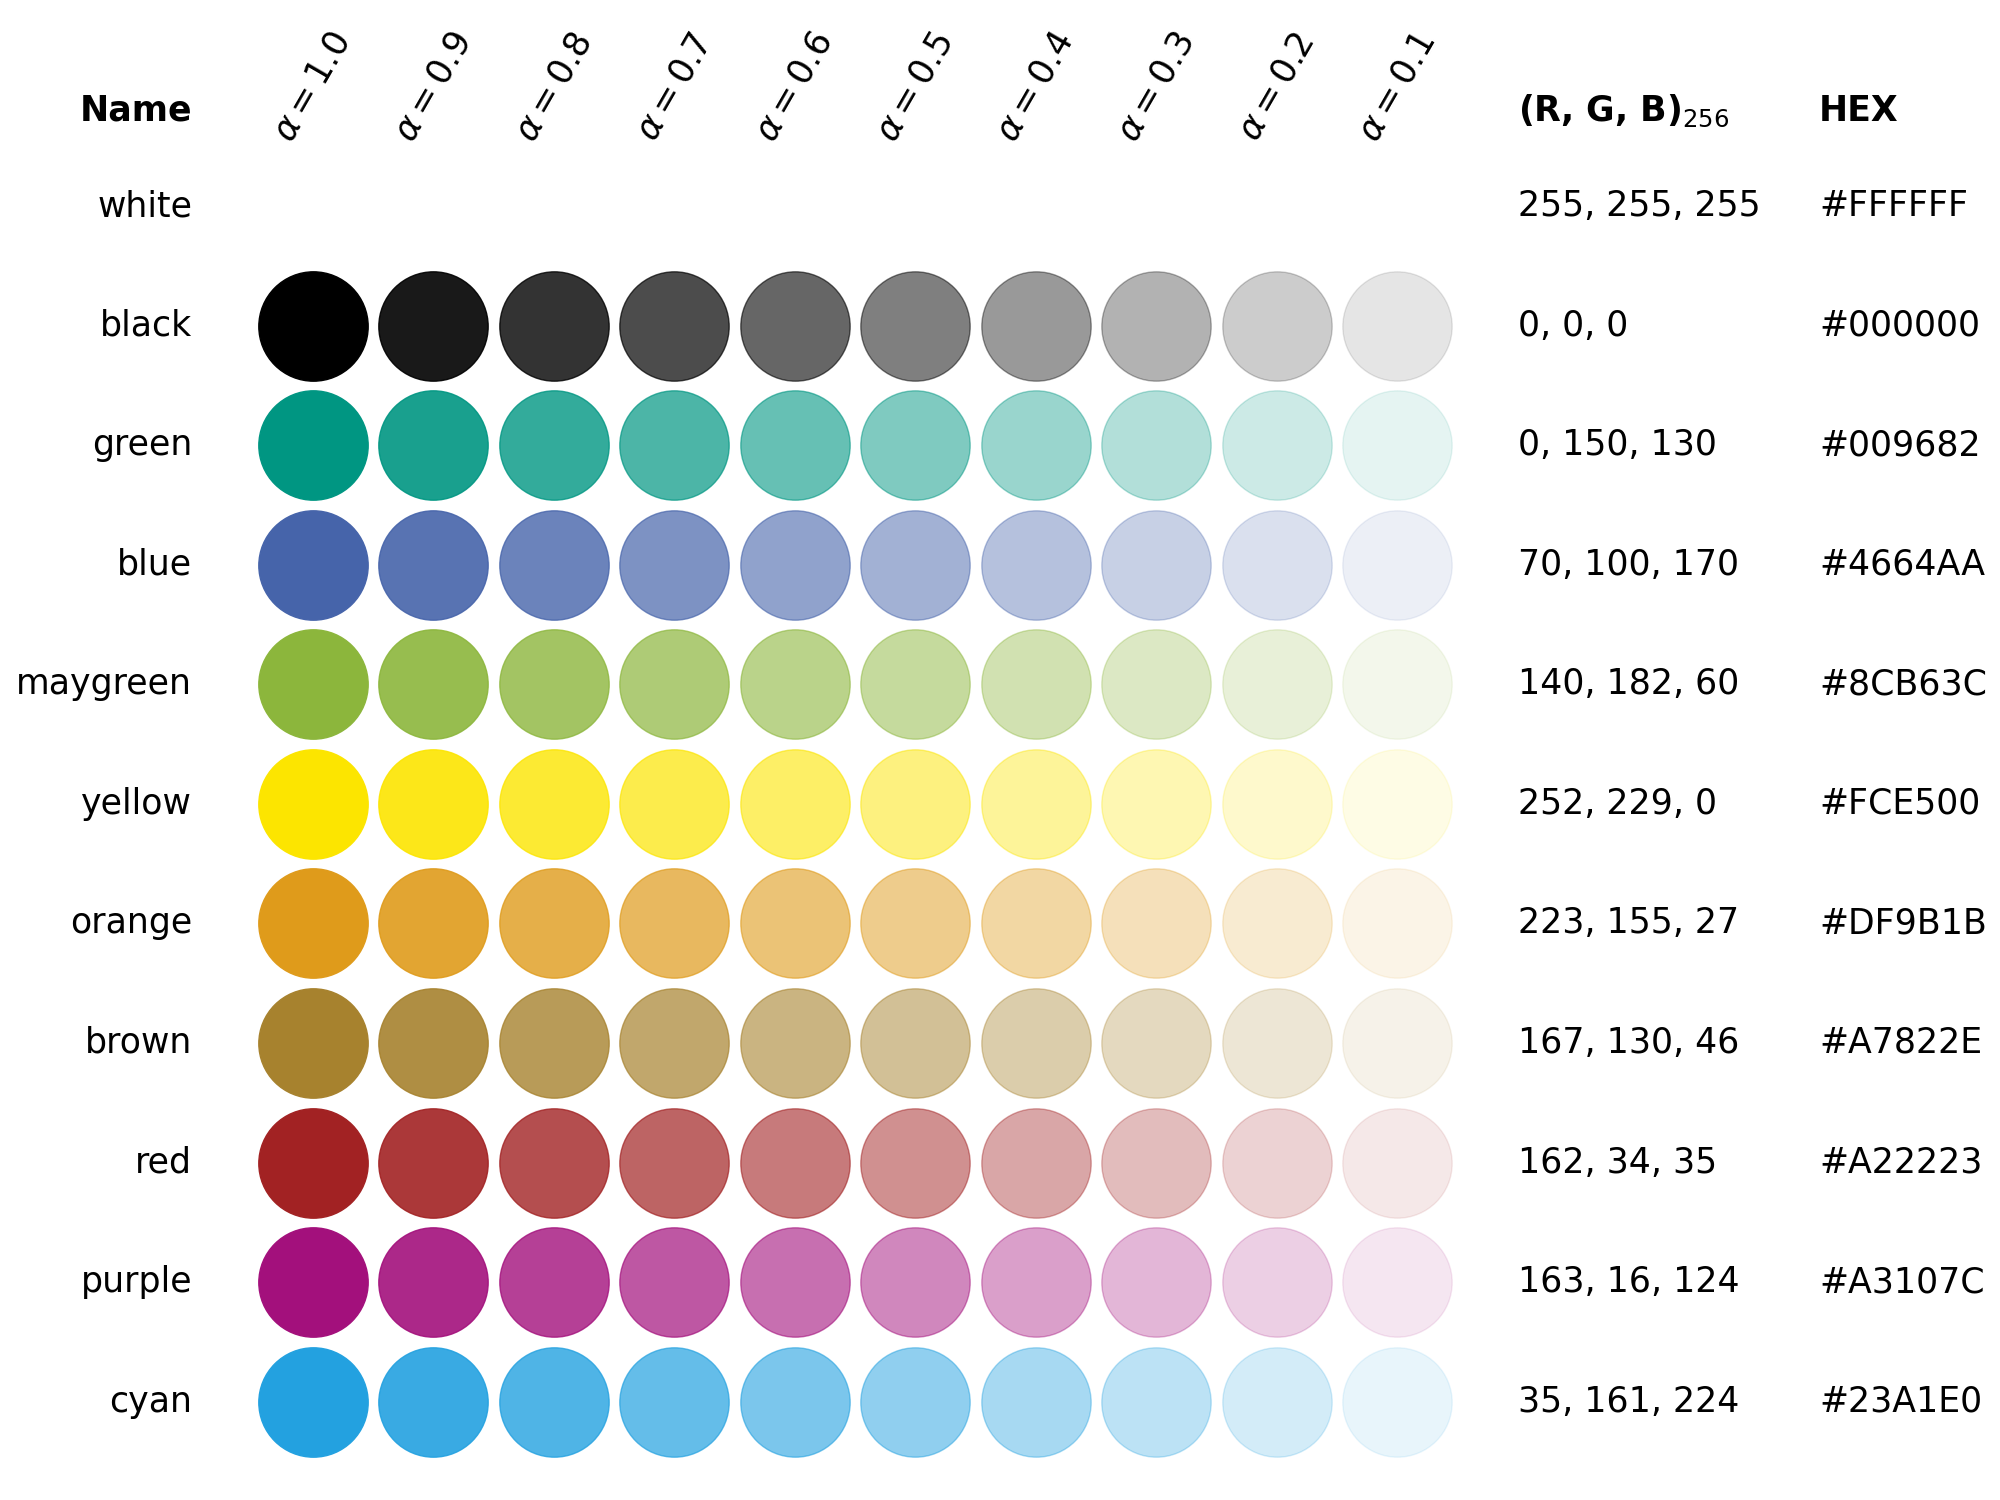
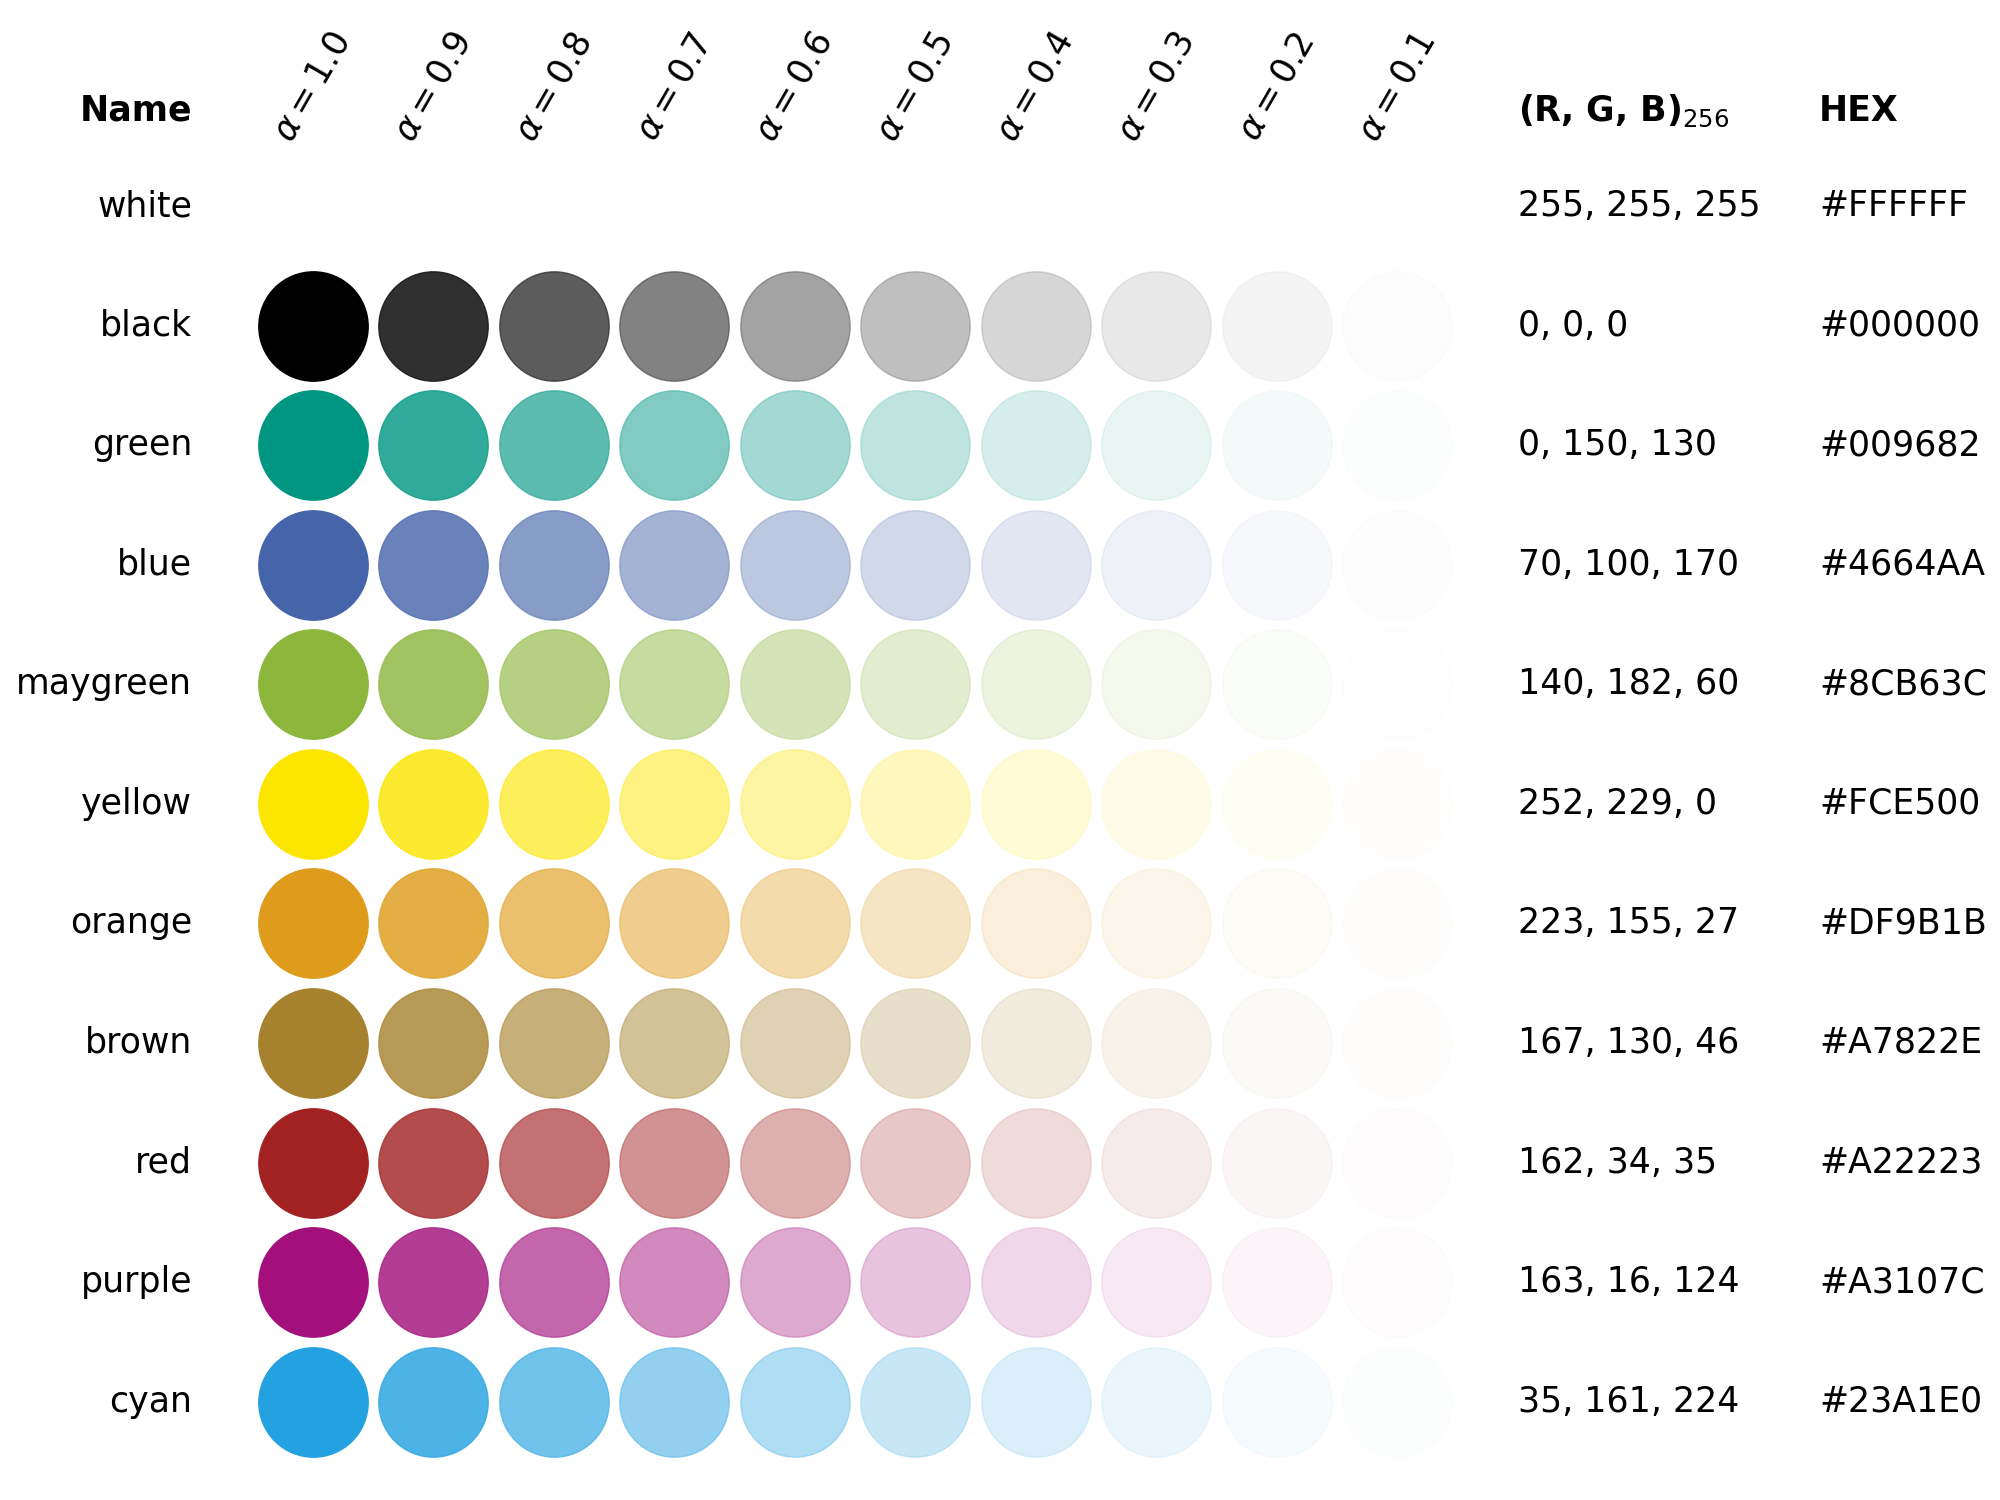
Bugfix and update of plotting.

Changed region(s): [[0.248, 0.184, 0.682, 0.9813]]

diff --git a/kitcolors/color.py b/kitcolors/color.py
@@ -62,7 +62,12 @@ class Color:
             return (*self.RGB, alpha)
         else:
             red, green, blue = self.RGB
-            return (alpha * red, alpha * green, alpha * blue)
+            white = 255
+            return (
+                alpha * red + (1 - alpha) * white,
+                alpha * green + (1 - alpha) * white,
+                alpha * blue + (1 - alpha) * white,
+            )
 
     @overload
     def rgba(
@@ -85,7 +90,12 @@ class Color:
             return (*self.rgb, alpha)
         else:
             red, green, blue = self.rgb
-            return (alpha * red, alpha * green, alpha * blue, 1.0)
+            white = 1.0
+            return (
+                alpha * red + (1 - alpha) * white,
+                alpha * green + (1 - alpha) * white,
+                alpha * blue + (1 - alpha) * white,
+            )
 
     def hexa(self, alpha: float) -> str:
         """Hex value of the color, including alpha."""

diff --git a/tests/test_kitcolors.py b/tests/test_kitcolors.py
@@ -11,7 +11,7 @@ def test_equivalence_transparent_nontransparent_rgb(
     rgb = color.rgba(alpha, transparent=False)
 
     for i in range(3):
-        assert rgba[i] * rgba[-1] == rgb[i]
+        assert rgba[i] * rgba[-1] + 1 * (1 - rgba[-1]) == rgb[i]
 
 
 @pytest.mark.parametrize("alpha", [0.0, 0.1, 0.5, 0.9, 1.0])
@@ -23,7 +23,7 @@ def test_equivalence_transparent_nontransparent_RGB(
     RGB = color.RGBa(alpha, transparent=False)
 
     for i in range(3):
-        assert RGBa[i] * RGBa[-1] == RGB[i]
+        assert RGBa[i] * RGBa[-1] + 255 * (1 - RGBa[-1]) == RGB[i]
 
 
 @pytest.mark.parametrize(

diff --git a/scripts/create_picture.py b/scripts/create_picture.py
@@ -46,7 +46,7 @@ if __name__ == "__main__":
                 0.8 * j,
                 mm - 2 * i,
                 s=6200,
-                color=color.rgba(alpha),
+                color=color.rgba(alpha=alpha, transparent=False),
                 alpha=alpha,
             )
             if i == 0:
